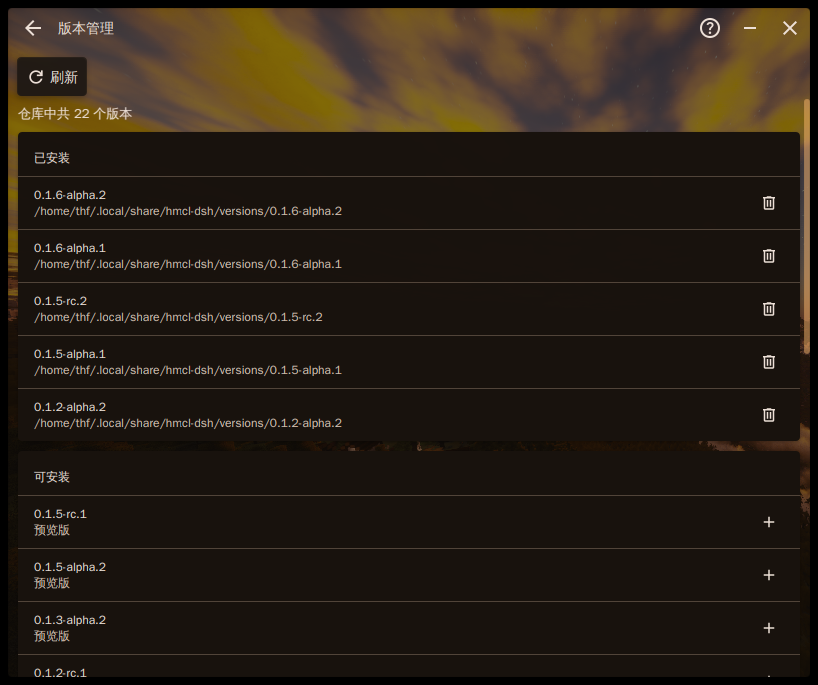
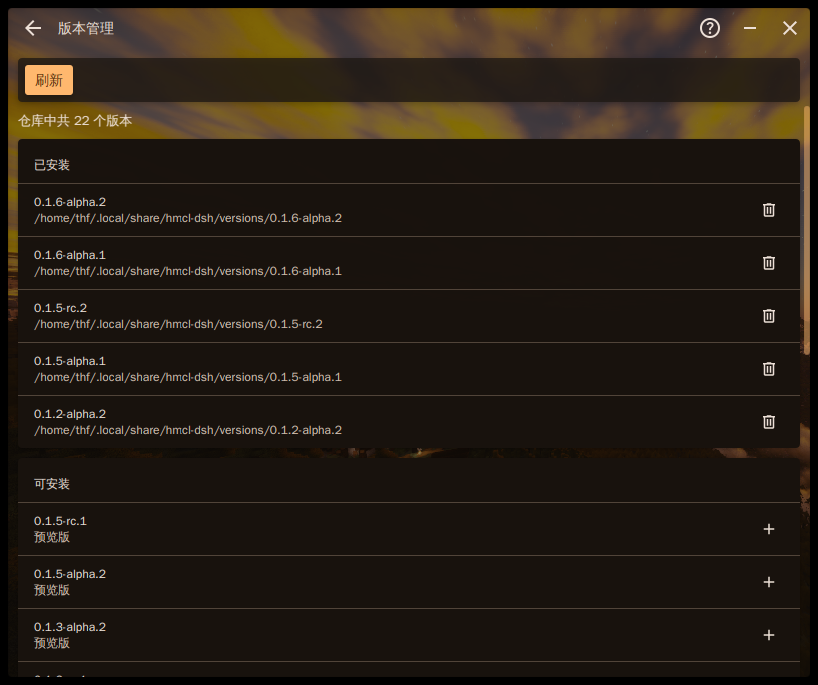
Put the versions page's card on the container, not on the button
The same mistake the wizard's toolbar had: the card class went on the refresh
button, and since both it and the raised style set a background, the card's won.
Found by sweeping for the pattern rather than by looking at the page, which is the
point — it is a mistake I had already made twice and could not see either time.

The button is now raised and sits inside a card, as the download page's refresh
does; this is the same kind of list, and it was the only page here whose refresh
was a flat toolbar button.

diff --git a/src/main/java/org/jackhuang/hmcl/ui/dsh/VersionsPage.java b/src/main/java/org/jackhuang/hmcl/ui/dsh/VersionsPage.java
@@ -32,6 +32,8 @@ import org.jackhuang.hmcl.dsh.DshVersionManager;
 import org.jackhuang.hmcl.ui.dsh.install.DshInstallWizardProvider;
 import org.jackhuang.hmcl.task.Schedulers;
 import org.jackhuang.hmcl.ui.Controllers;
+import javafx.geometry.Pos;
+import javafx.scene.layout.HBox;
 import javafx.scene.layout.BorderPane;
 import org.jackhuang.hmcl.ui.ToolbarListPageSkin;
 import org.jackhuang.hmcl.ui.FXUtils;
@@ -93,8 +95,15 @@ public final class VersionsPage extends DecoratorAnimatedPage implements Decorat
         // No sidebar: the original's versions page has none, and a category
         // holding one item named after the page says the same thing twice.
         // Refresh belongs in the toolbar, where every other list page keeps it.
-        Node toolbar = ToolbarListPageSkin.createToolbarButton2(
-                i18n("button.refresh"), SVG.REFRESH, this::refresh);
+        // A raised button inside the card, as the download page's refresh is:
+        // this is the same kind of list. The card goes on the container — both
+        // classes set a background and the card's wins, so putting it on the
+        // button turns the button into a panel.
+        JFXButton refreshButton = FXUtils.newRaisedButton(i18n("button.refresh"));
+        refreshButton.setOnAction(event -> refresh());
+
+        HBox toolbar = new HBox(refreshButton);
+        toolbar.setAlignment(Pos.CENTER_LEFT);
         toolbar.getStyleClass().add("card");
         BorderPane.setMargin(toolbar, new Insets(10, 10, 0, 10));
 
